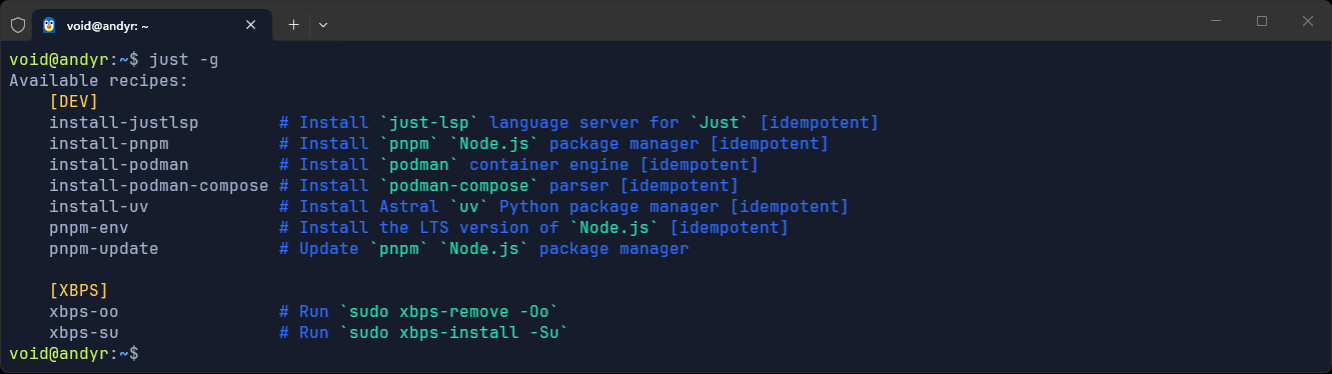
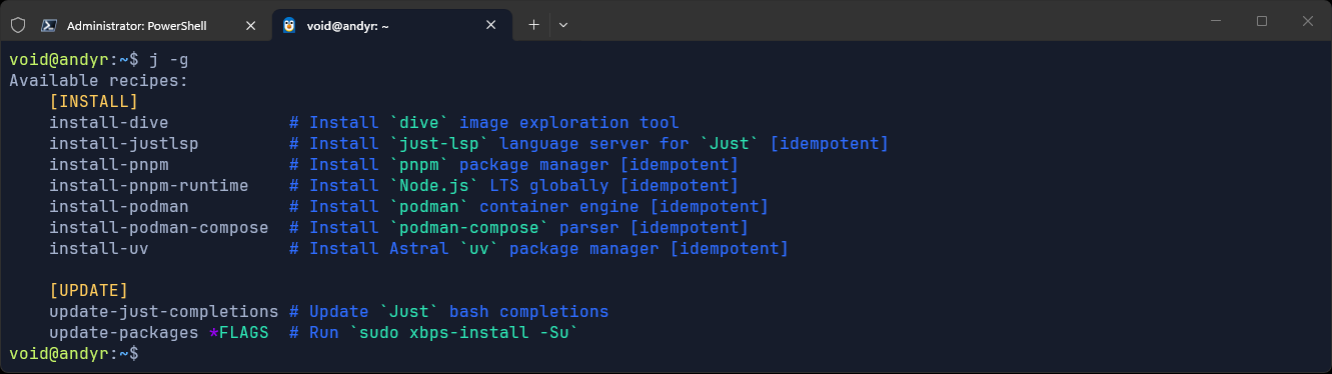
docs: update README.md

diff --git a/README.md b/README.md
@@ -36,6 +36,8 @@ git clone --depth=1 [email redacted]:andyrids/windows-subsystem-for-linux-void.git
 cd .\windows-subsystem-for-linux-void\
 ```
 
+![installing Void](docs/img/install-start-void.png)
+
 ### Running the Installation Script
 
 You can pass a custom installation directory with `-InstallDirectory`, which defaults to `%USERPROFILE%\WSL\Void`. A custom name for the distribution can be set through `-DistroName`. The script will attempt to identify your system architecture and download the appropriate ROOTFS version, but this can be manually set via `-Architecture`:
@@ -145,8 +147,6 @@ You can also provide a custom distro name with `-DistroName` to run a side-by-si
 ```
 
 If the default distro name already exists and `-DistroName` is not set, the script prompts for a unique name.
-
-![install directory](/docs/img/install-directory-check.png)
 
 ### (3) Package Repository Update & Upgrades
 